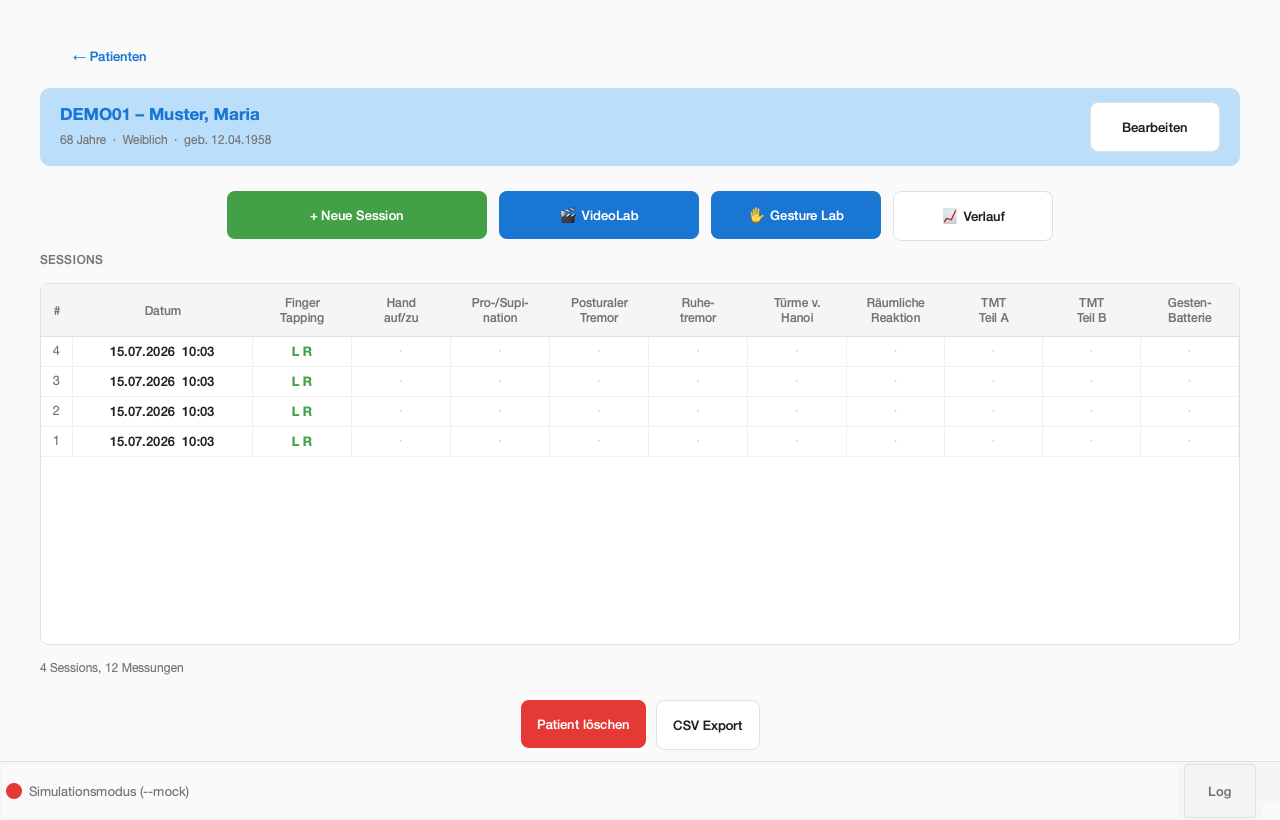
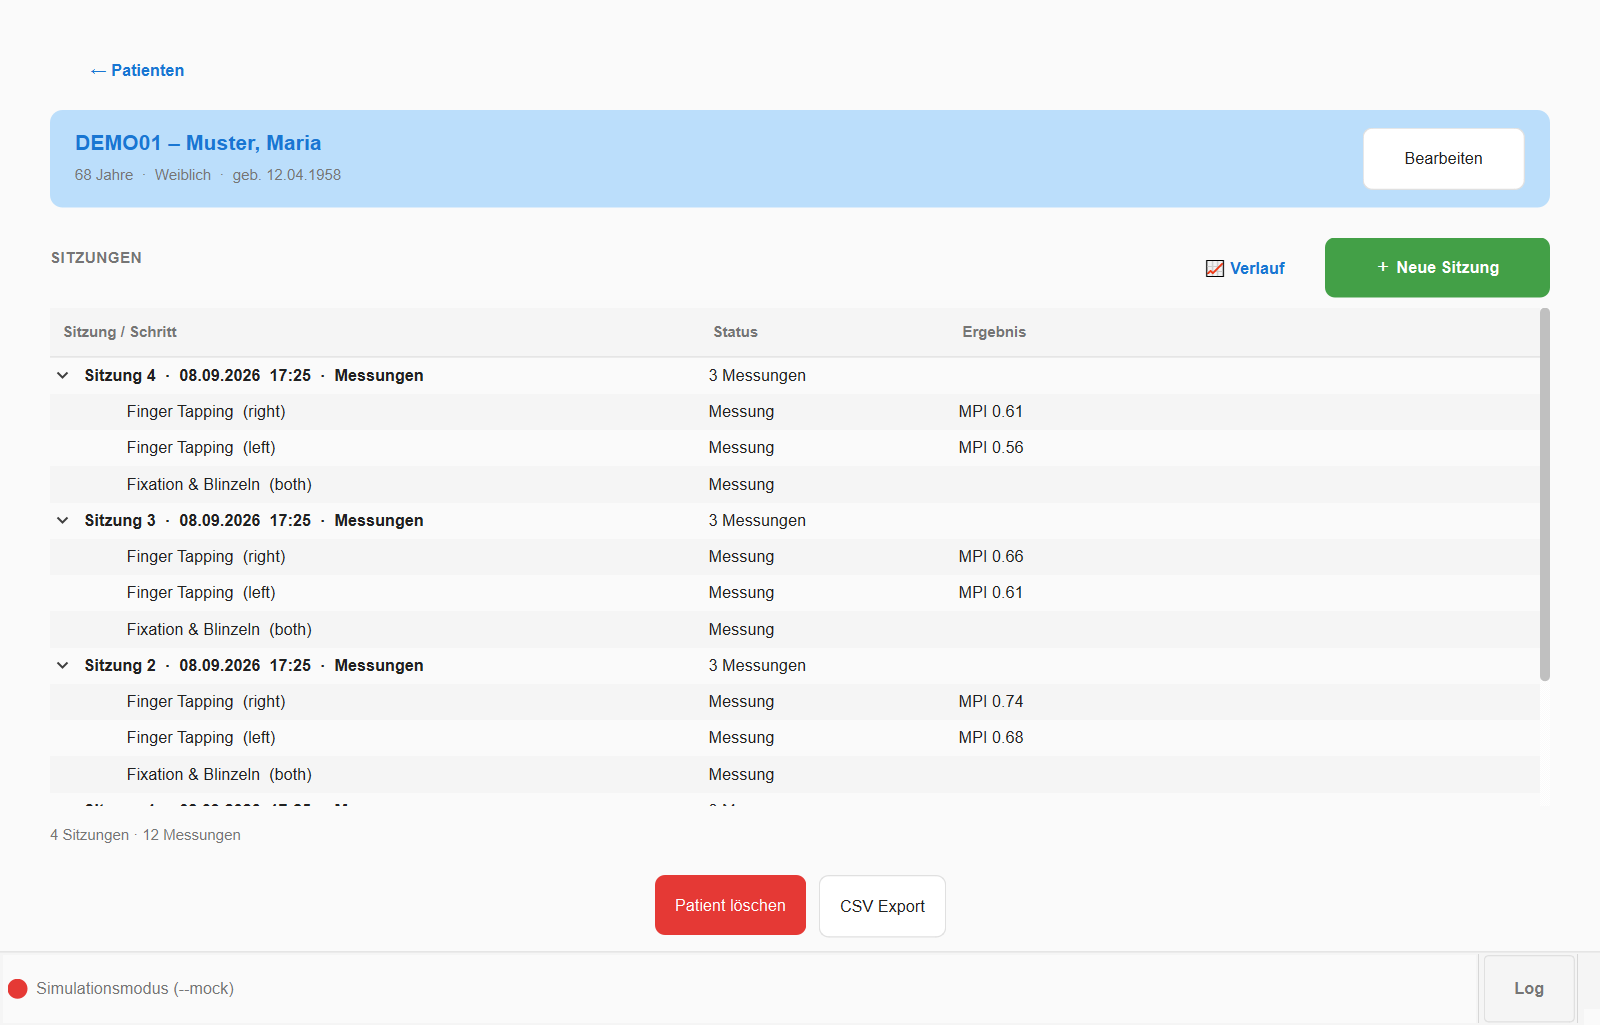
Docs: describe the session screen, regenerate the manual's screenshots
README "Bedienung", the user manual's quick-start, the patient-detail chapter
and the former VideoLab chapter now describe the flow as it is: one "Neue
Sitzung" entry, the session screen with content list and workbench, the
record → review → confirm cycle, the switchable analysis, and the tree.

make_screenshots.py drove the retired VideoLab screen; it now opens a session
instead. On Windows it renders through the native platform with the window
kept off the desktop — offscreen there has no system fonts, so every glyph
came out as a box. All manual images regenerated from the real app;
11_videolab.png is replaced by 11_sitzung.png.

CHANGELOG gains the "Video als Primärquelle" block; SESSION_KONZEPT's status
table marks steps 1–4 done and lists what is still open (acquisition_mode,
interactive steps, compressed clips per measurement).

diff --git a/docs/manual.html b/docs/manual.html
@@ -114,10 +114,13 @@ Zeit betrachten.</p>
     <code>start.bat</code> (legt beim ersten Mal die Python-Umgebung an).
     Ohne Sensor: <code>./start.sh --mock</code> (Simulationsmodus).</li>
 <li><b>Patient wählen</b> oder neu anlegen (Startbildschirm).</li>
-<li><b>„+ Neue Session"</b> → Test-Kachel anklicken → bei Hand-Tests Hand wählen.</li>
-<li>Anweisungen folgen — die Aufnahme startet erst, wenn Hand bzw. Gesicht
-    erkannt wurde (Countdown 3-2-1).</li>
-<li><b>Ergebnis</b> wird automatisch gespeichert; „Fortfahren" führt zurück zum Dashboard.</li>
+<li><b>„＋ Neue Sitzung"</b> öffnet den Sitzungsbildschirm. Über <b>Hinzufügen</b>:
+    Protokoll aufnehmen, einzelnes Paradigma oder Video importieren.</li>
+<li>Je Schritt: Anweisung lesen → <b>● Aufnahme starten</b> → Countdown → Aufnahme →
+    Take ansehen → <b>✔ Übernehmen</b> oder <b>↻ Wiederholen</b>. Unter der Vorschau
+    zeigt eine Zeile live, ob Hände und Gesicht erkannt werden.</li>
+<li><b>Ergebnis</b>: mit „Nach Übernehmen automatisch auswerten" wird der bestätigte
+    Take sofort analysiert; das Ergebnis steht in der Inhaltsliste und im Sitzungsbaum.</li>
 </ol>
 
 <figure><img src="img/01_patienten.png" alt="Patientenliste">
@@ -158,11 +161,13 @@ betroffenen Werte automatisch.</div>
 
 <h2 id="patienten">4&nbsp;· Patienten &amp; Sessions</h2>
 <figure><img src="img/02_patient_detail.png" alt="Patienten-Detail">
-<figcaption>Patienten-Detail: Session-Matrix (Zeilen = Sitzungen, Spalten = Tests).
-Zellen anklicken öffnet die Detailansicht; gedrückt halten bietet Aktionen
-(Messung ergänzen, Session löschen). Oben: 🎬 VideoLab, ✋ Gesture Lab, 📈 Verlauf.</figcaption></figure>
+<figcaption>Patienten-Detail: Sitzungsbaum — je Sitzung die aufgenommenen Schritte mit
+Zustand (○ offen, ◐ aufgenommen, ✔ bestätigt) und Ergebnis, dazu direkt gemessene
+Werte. Rechtsklick bietet Fortsetzen, erneut aufnehmen, Live-Messung hinzufügen,
+Sitzung löschen. Oben rechts: 📈 Verlauf und „＋ Neue Sitzung".</figcaption></figure>
 <ul>
-<li><b>Zellen-Symbole:</b> L/R = durchgeführte Hand, ✓ = bilateral/Augen erledigt, · = offen.</li>
+<li><b>Symbole im Baum:</b> ○ offen · ◐ aufgenommen, noch nicht gesichtet · ✔ bestätigt (Video liegt vor);
+    die Spalte „Ergebnis" zeigt z.&nbsp;B. <code>Ruhetremor: MPI 0.62</code> oder „nicht ausgewertet".</li>
 <li><b>CSV-Export</b> (unten) exportiert alle Messungen des Patienten für die Statistik.</li>
 <li>Jede Messung speichert <b>Quelle</b> (Leap/Webcam/Video/Simulation), Dauer und Rohdaten-Verweis.</li>
 </ul>
@@ -238,10 +243,16 @@ als Spitzen) und Lidspalte mit Blink-Schwelle (rechts).</figcaption></figure>
 <figcaption>📈 Verlauf: beliebiges Merkmal über die Zeit, getrennt nach Hand.
 Hohle Punkte = Kamera-Quelle (≈mm-Modellskala), gefüllte = Leap.</figcaption></figure>
 
-<h2 id="videolab">8&nbsp;· VideoLab — Handy-Videos auswerten</h2>
-<figure><img src="img/11_videolab.png" alt="VideoLab">
-<figcaption>VideoLab: Video laden, Bereich mit den zwei Reglern markieren,
-Segment benennen und Paradigma zuordnen, dann analysieren.</figcaption></figure>
+<h2 id="videolab">8&nbsp;· Sitzung — Aufnahme, Import und Auswertung</h2>
+<figure><img src="img/11_sitzung.png" alt="Sitzungsbildschirm">
+<figcaption>Sitzungsbildschirm: links der Inhalt (Protokollschritte, importiertes Video),
+rechts der Arbeitsbereich, der der Auswahl folgt — Aufnahme eines Schritts,
+Sichtung des Takes oder Schnitt eines importierten Videos.
+Unten: Kamera wechseln, Gesichtserkennung, Status.</figcaption></figure>
+<p>Über <b>＋ Hinzufügen</b> kommt Inhalt in die Sitzung: <b>Protokoll aufnehmen</b>
+(mehrere Schritte nacheinander), <b>Einzelnes Paradigma</b> (ein Schritt) oder
+<b>Video importieren</b>. Ein importiertes Video erscheint als eigener Eintrag;
+angeklickt öffnet es den Schnitt-Bereich:</p>
 <ol class="steps">
 <li><b>Video laden</b> — wird automatisch normalisiert (Größe/Format);
     falsch orientierte Videos mit <b>↻ 90°</b> drehen.</li>

diff --git a/docs/make_screenshots.py b/docs/make_screenshots.py
@@ -14,7 +14,9 @@ import tempfile
 import time
 from pathlib import Path
 
-os.environ.setdefault("QT_QPA_PLATFORM", "offscreen")
+# Offscreen renders without system fonts on Windows (every glyph a box), so use
+# the native platform there and keep the window off the desktop instead.
+os.environ.setdefault("QT_QPA_PLATFORM", "windows" if sys.platform == "win32" else "offscreen")
 ROOT = Path(__file__).resolve().parent.parent
 sys.path.insert(0, str(ROOT))
 
@@ -98,6 +100,8 @@ def main() -> None:
 
     from ui.main_window import MotryxMainWindow
     w = MotryxMainWindow(src)
+    from PyQt6.QtCore import Qt
+    w.setAttribute(Qt.WidgetAttribute.WA_DontShowOnScreen, True)   # grab() still renders
     w.resize(WIN_W, WIN_H)
     w.show()
     app.processEvents()

diff --git a/CHANGELOG.md b/CHANGELOG.md
@@ -51,9 +51,32 @@ Versionierung: SemVer-artig (0.x = Forschungsprototyp).
 - Der Sim-Modus blendete ohne vorhandenen Clip die Vorschau aus, statt den
   Grund dort anzuzeigen.
 
+### Sitzungen: Video als Primärquelle
+- **Ein Bildschirm pro Sitzung** (`ui/session_screen.py`): links der Inhalt
+  (Protokollschritte, importiertes Video), rechts der Arbeitsbereich, der der
+  Auswahl folgt — Aufnahme, Take-Sichtung oder Video-Schnitt. Protokoll,
+  einzelnes Paradigma und Video-Import sind drei Einträge im Menü
+  „Hinzufügen", keine drei Bildschirme mehr.
+- **Aufnahmeprotokolle** (`video/protocols/*.yaml`, Loader mit Validierung):
+  jeder Schritt wird einzeln gefilmt, gesichtet und bestätigt; ein einzelnes
+  Paradigma ist ein Protokoll der Länge 1. Zustand und Takes werden an der
+  Video-Session persistiert, eine unterbrochene Aufnahme lässt sich fortsetzen.
+- **Zuschaltbare Analyse**: ein bestätigter Take wird über denselben
+  `AnalysisRunner` ausgewertet wie ein importiertes Segment — gleiche Zahlen.
+- **Sitzungsübersicht als Baum** statt Test-Matrix: Schritte mit Zustand
+  (offen / aufgenommen / bestätigt) und Ergebnis, Kontextmenü je Knotentyp.
+- **Ein Einstieg**: „Neue Sitzung" öffnet direkt den Sitzungsbildschirm;
+  die Knöpfe „VideoLab" und „Gesture Lab" auf der Patientenseite entfallen.
+- **Video-Sessions pro Sitzung** (`session_<id>/`) statt pro Patient;
+  bestehende Dateien werden der jüngsten Sitzung zugeordnet.
+- Aufnahme-Bildschirm mit Live-Erkennungsanzeige, Kamerawechsel im Footer.
+
 ### Hinweise
 - Leap Motion ist auf diesem Stand standardmäßig deaktiviert
   (`MOTRYX_ENABLE_LEAP=1` bzw. `start.ps1 --leap` aktiviert es wieder).
+- Der alte Live-Weg über das Paradigmen-Dashboard bleibt für interaktive
+  Paradigmen (Hanoi, SRT, TMT, Sakkaden) und ist aus dem Sitzungsbaum über
+  „Live-Messung hinzufügen…" erreichbar.
 
 ## [0.3.0] — 2026-07-15
 

diff --git a/SESSION_KONZEPT.md b/SESSION_KONZEPT.md
@@ -365,11 +365,15 @@ nach.
 |---|---|
 | Protokoll-Schema, Loader, Validierung (`video/protocol.py`) | **erledigt** |
 | Schrittzustände + Persistenz (`video/store.py`) | **erledigt** |
-| Aufnahme-Ablauf (Countdown, Sichtung) in der UI | offen |
-| VideoLab: zweiter Eingang „Aufnahme" | offen |
-| `acquisition_mode` an der Session | offen |
-| `VideoSession` von Patient auf Session umschlüsseln | offen |
-| Session-Baum im Patientenscreen | offen |
+| Aufnahme-Ablauf (Countdown, Sichtung, Wiederholen) | **erledigt** (`ui/recording_pane.py`) |
+| Zuschaltbare Analyse nach dem Bestätigen | **erledigt** (gleicher Weg wie Import) |
+| Ein Bildschirm pro Sitzung (§6b) | **erledigt** (`ui/session_screen.py`) |
+| `VideoSession` von Patient auf Session umschlüsseln | **erledigt** (`load_for_session`, Altbestand → jüngste Sitzung) |
+| Session-Baum im Patientenscreen | **erledigt** |
+| Ein Einstieg „Neue Sitzung", VideoLab/Gesture Lab als Knöpfe entfernt | **erledigt** |
+| `acquisition_mode` im `VISIT_BLOB` | offen — der Baum leitet die Art bislang aus dem Inhalt ab |
+| Interaktive Paradigmen als Schritt-Typ im Protokoll | offen (experimentell, siehe §6) |
+| Komprimierte Clips je Messung ablegen („Video-Datenbank") | offen — siehe §8 |
 
 **Protokoll-Versionierung** und **Abbruch mittendrin** sind mit der Persistenz
 gelöst: `VideoSession.steps` ist eine *Kopie* der Protokollschritte (spätere

diff --git a/README.md b/README.md
@@ -145,12 +145,19 @@ pip install -r requirements.txt
 ### Bedienung
 
 1. **Patient waehlen** oder neuen anlegen
-2. **Test anklicken** im Dashboard (8 Test-Karten)
-3. **Hand waehlen** (L/R) bei unilateralen Tests, Auto-Detection bei kognitiven Tests
-4. **Hand-Detection** → 3-2-1 Countdown → Aufnahme mit Live-Plot / interaktive Aufgabe
-5. **Ergebnisse** werden automatisch gespeichert
-6. **Verwerfen** / **Neu aufnehmen** / **Fortfahren** (mit optionaler Rohdaten-Speicherung)
-7. Weitere Tests durchfuehren oder Session beenden
+2. **„＋ Neue Sitzung"** oeffnet den Sitzungsbildschirm — links der Inhalt,
+   rechts der Arbeitsbereich
+3. **Hinzufuegen**: *Protokoll aufnehmen* (mehrere Schritte), *Einzelnes
+   Paradigma* (ein Schritt) oder *Video importieren*
+4. **Aufnehmen** je Schritt: Anweisung lesen → Countdown → Aufnahme →
+   Take ansehen → **Uebernehmen** oder **Wiederholen**
+5. Mit „Nach Uebernehmen automatisch auswerten" entsteht das Ergebnis direkt
+   auf dem bestaetigten Take (derselbe Weg wie beim Import)
+6. **„← Patient"** zurueck zur Uebersicht: der Baum zeigt je Sitzung die
+   Schritte mit Zustand und Ergebnis; Rechtsklick bietet Fortsetzen,
+   erneut aufnehmen, Live-Messung hinzufuegen, Loeschen
+7. Interaktive Paradigmen (Hanoi, SRT, TMT, Sakkaden) laufen weiterhin live
+   ueber „Live-Messung hinzufuegen…"
 
 ## Projektstruktur
 
